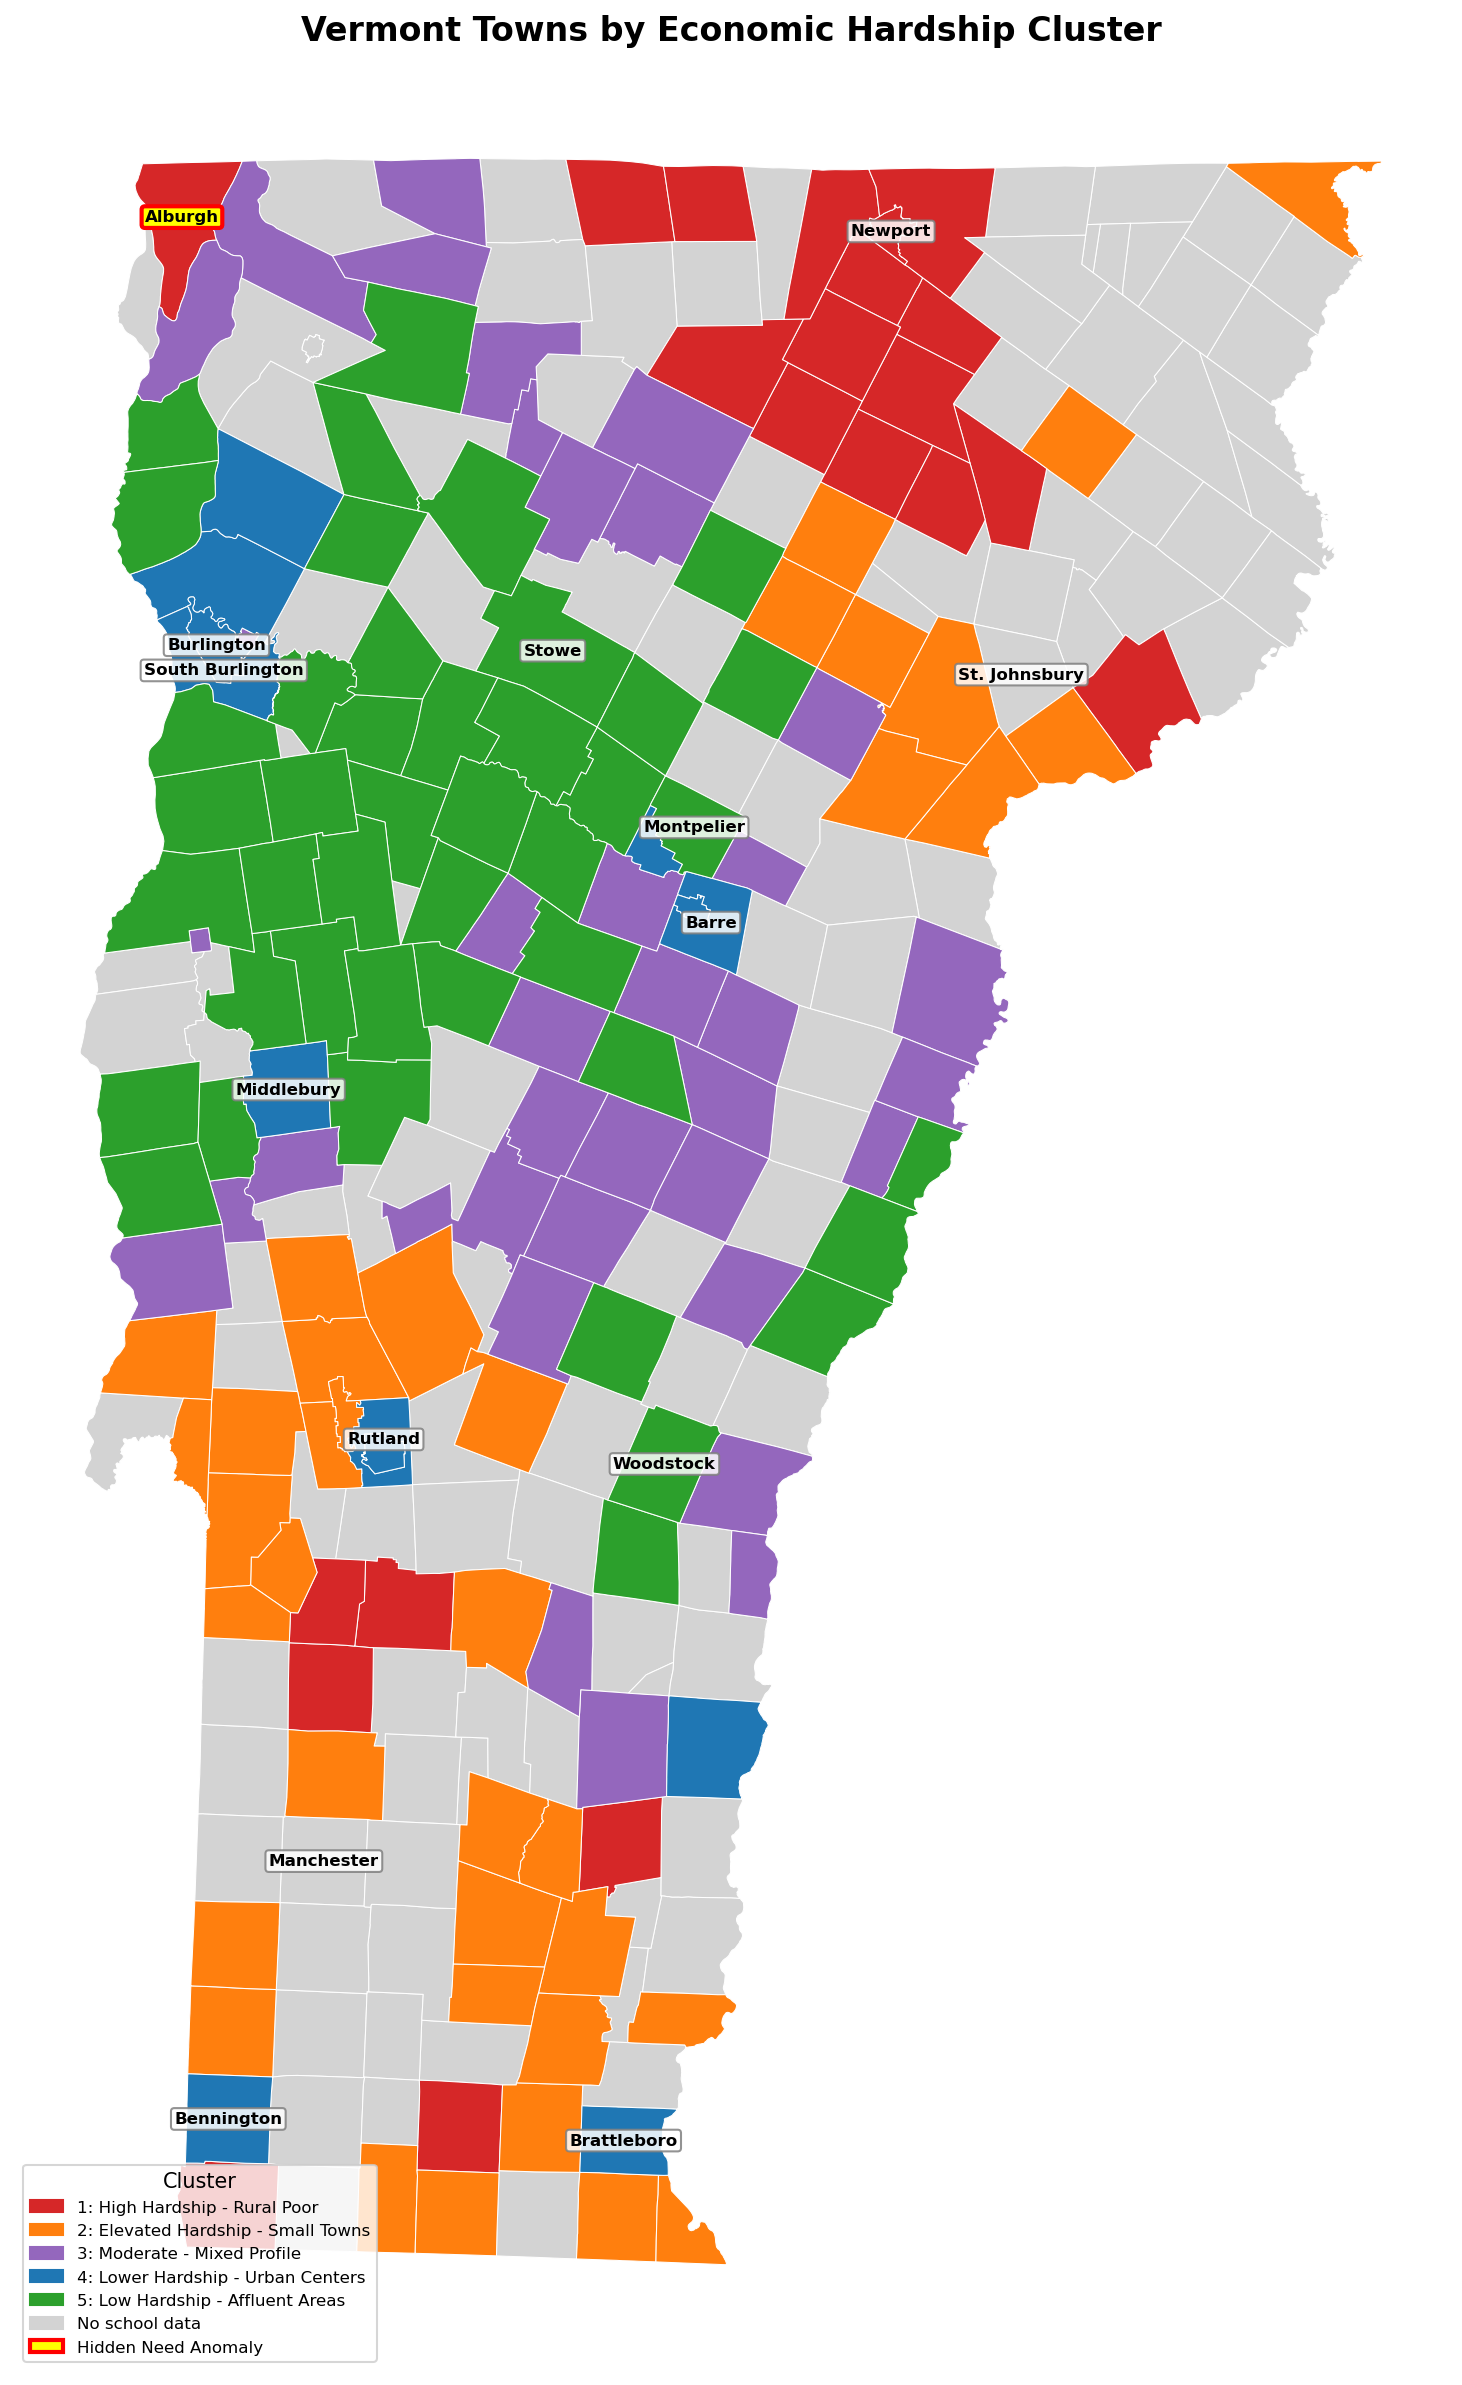
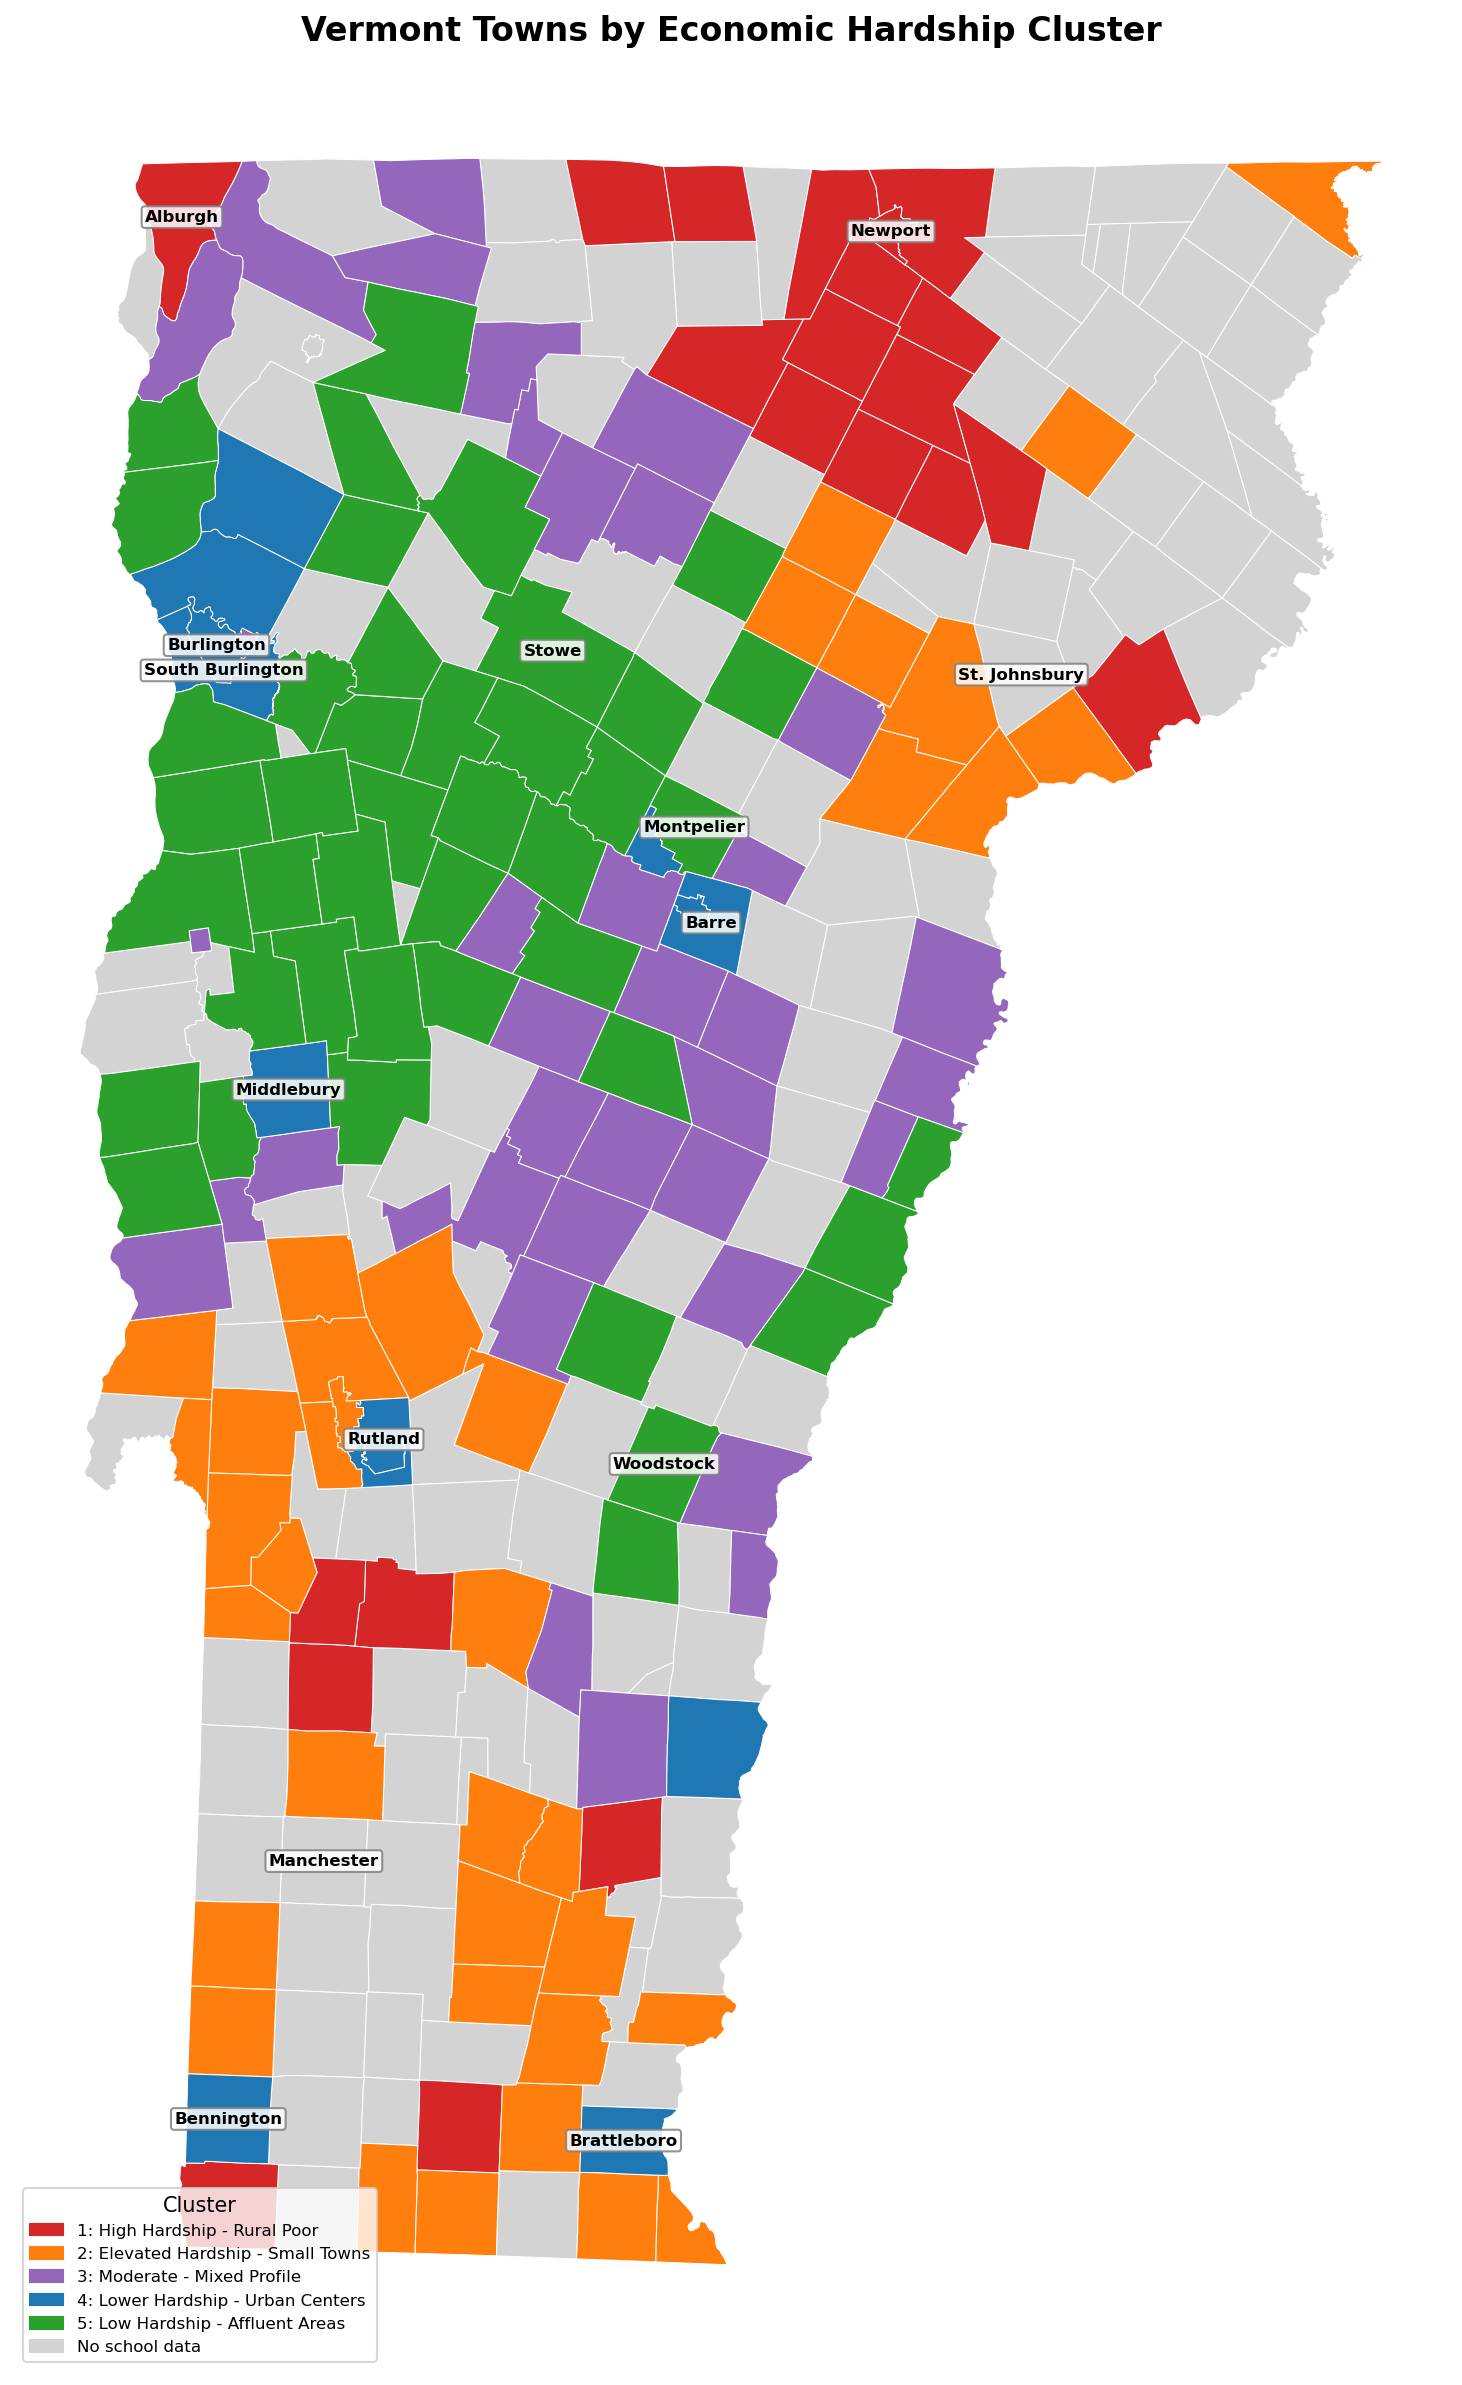
Shorten README, remove yellow highlight from Alburgh

Changed region(s): [[0.0, 0.8998, 0.277, 0.9929], [0.0923, 0.0621, 0.1539, 0.1241]]

diff --git a/README.md b/README.md
@@ -1,123 +1,58 @@
-# Vermont Town-Level Economic Hardship Analysis
+# Vermont Economic Hardship Analysis
 
-An unsupervised learning approach to identify economic hardship patterns across Vermont's 191 towns using K-Means clustering, PCA, and anomaly detection.
+Unsupervised learning analysis of economic hardship across Vermont's 191 towns using K-Means clustering, PCA, and anomaly detection.
 
-## Data Sources
-
-- **Census ACS 2022**: County-level poverty rate, median household income, SNAP participation
-- **NCES Common Core of Data 2022**: School-level free/reduced lunch eligibility
-
-## Key Findings
-
-- **191 towns** analyzed across all 14 Vermont counties
-- **35 towns (18%)** classified as "High Hardship"
-- **Free/Reduced Lunch rates** range from 4% (Charlotte) to 75% (North Troy)
-- **19 anomaly towns** identified with unusual hardship patterns
+**Data**: Census ACS 2022 (county economics) + NCES CCD 2022 (school lunch eligibility)
 
 ---
 
-## Principal Component Analysis (PCA)
+## PCA Results
 
-We reduced 32 economic features down to 5 principal components that capture 84% of the variance.
+Reduced 32 features to 5 principal components (84% variance explained).
 
-![PCA Scatter Plot](fig3_pca_scatter.png)
+![PCA Scatter](fig3_pca_scatter.png)
 
-### What the Components Represent
-
-| Component | Variance | Interpretation |
-|-----------|----------|----------------|
-| **PC1** | 37% | **Economic Hardship** — High FRPL rates, high poverty, low income, high SNAP participation. Towns on the right side of the plot face more economic challenges. |
-| **PC2** | 26% | **Town Size** — Total enrollment, number of schools, within-town variance. Towns at the top are larger (Burlington, Rutland), towns at the bottom are small rural communities. |
-| **PC3** | 12% | **County vs Town Effects** — Captures differences between town-level and county-level indicators. |
-| **PC4** | 6% | **School Structure** — Whether a town has separate elementary/middle/high schools vs. combined schools. |
-| **PC5** | 4% | **Within-Town Inequality** — Variance in FRPL rates across different schools in the same town. |
-
-**Key insight**: The horizontal axis (PC1) essentially ranks towns from most affluent (left) to most struggling (right). The vertical axis (PC2) separates large urban centers from small rural towns.
+- **PC1 (37%)**: Economic hardship — higher values = more struggling
+- **PC2 (26%)**: Town size — larger towns at top, small rural at bottom
 
 ---
 
 ## K-Means Clustering
 
-We grouped towns into 5 clusters based on their economic profiles.
+![Clusters](fig8_clusters_pca_space.png)
 
-![Clusters in PCA Space](fig8_clusters_pca_space.png)
-
-### Cluster Definitions
-
-| Cluster | Name | Towns | Avg FRPL | Description |
-|---------|------|-------|----------|-------------|
-| **1** (Red) | High Hardship - Rural Poor | 35 | 54% | Small rural towns with severe economic stress. Concentrated in Orleans and Essex counties (the "Northeast Kingdom"). |
-| **2** (Orange) | Elevated Hardship - Small Towns | 45 | 28% | Small towns in lower-income counties. Not as severe as Cluster 1, but still facing challenges. |
-| **3** (Purple) | Moderate - Mixed Profile | 47 | 39% | Middle-of-the-road towns. Mix of economic indicators, often in transitional areas. |
-| **4** (Blue) | Lower Hardship - Urban Centers | 15 | 31% | Larger towns and small cities (Burlington, Rutland, Bennington). Higher FRPL than Cluster 5 due to urban poverty pockets. |
-| **5** (Green) | Low Hardship - Affluent Areas | 49 | 17% | Wealthy suburban and resort towns. Includes Stowe, Woodstock, Charlotte, and Burlington suburbs. |
+| Cluster | Name | Towns | Avg FRPL |
+|---------|------|-------|----------|
+| 1 (Red) | High Hardship - Rural Poor | 35 | 54% |
+| 2 (Orange) | Elevated Hardship | 45 | 28% |
+| 3 (Purple) | Moderate | 47 | 39% |
+| 4 (Blue) | Urban Centers | 15 | 31% |
+| 5 (Green) | Affluent Areas | 49 | 17% |
 
 ---
 
 ## Geographic Distribution
 
-![Vermont Map by Cluster](fig17_vermont_map.png)
+![Vermont Map](fig17_vermont_map.png)
 
-The map reveals clear geographic patterns:
-
-- **Northeast Kingdom** (Orleans, Essex, Caledonia counties): Dominated by red and orange — this is Vermont's economically struggling region
-- **Chittenden County** (Burlington area): Almost entirely green — the state's economic engine
-- **Southern Vermont**: Mixed, with pockets of hardship in Bennington and Windham counties
-- **Resort corridor** (Stowe, Manchester, Woodstock): Green islands of affluence
+- **Northeast Kingdom** (Orleans, Essex): Mostly red/orange — highest hardship
+- **Chittenden County**: Green — most affluent
+- **Alburgh**: 67.5% FRPL in Grand Isle County (Vermont's wealthiest) — a "hidden need" town
 
 ---
 
-## Anomaly Detection: Hidden Need Towns
+## Anomaly Detection
 
-Using Isolation Forest, we identified 19 towns that don't fit typical patterns. These "hidden need" cases are particularly important for policy because they might be overlooked by standard analysis.
+19 towns flagged as outliers. Key examples:
 
-### Notable Anomalies
-
-**Alburgh** (Grand Isle County)
-- 67.5% FRPL rate — one of the highest in the state
-- Located in Grand Isle County, which has the *highest* median income ($86,639) in Vermont
-- This town would be completely missed by county-level analysis
-- **Why it matters**: A struggling community hidden within a wealthy county
-
-**Burlington** (Chittenden County)
-- 48% FRPL rate despite being in Vermont's wealthiest county
-- High within-town inequality: schools range from 20% to 70% FRPL
-- **Why it matters**: Urban poverty concentrated in specific neighborhoods
-
-**Newport** (Orleans County)
-- 59% FRPL rate with high school-to-school variance
-- Largest town in the Northeast Kingdom
-- **Why it matters**: Regional hub that could anchor economic development efforts
-
-**Plainfield** (Washington County)
-- 33% FRPL rate, but extremely high variance between schools
-- **Why it matters**: Hidden inequality within an otherwise moderate town
+- **Alburgh**: High poverty in wealthy county
+- **Burlington**: 48% FRPL, high inequality between schools
+- **Newport**: 59% FRPL, regional hub in struggling area
 
 ---
 
 ## Files
 
-| File | Description |
-|------|-------------|
-| `vermont_clusters.csv` | All 191 towns with cluster assignments and key metrics |
-| `vermont_anomalies.csv` | Detailed analysis of 19 anomaly towns |
-| `vermont_feature_matrix.csv` | Full 32-feature matrix used for analysis |
-| `fig3_pca_scatter.png` | Towns in PCA space colored by FRPL rate |
-| `fig8_clusters_pca_space.png` | Towns colored by cluster assignment |
-| `fig17_vermont_map.png` | Geographic map of Vermont by cluster |
-
-## Methodology
-
-1. **Data Collection**: Census ACS API + Urban Institute Education Data API
-2. **Feature Engineering**: 32 variables including weighted FRPL rates, within-town variance, county economics
-3. **PCA**: Reduced to 5 components (84% variance explained)
-4. **K-Means**: k=5 clusters determined by silhouette score
-5. **Anomaly Detection**: Isolation Forest with 10% contamination threshold
-
-## Tools
-
-Python, pandas, scikit-learn, geopandas, matplotlib
-
----
-
-*Analysis conducted March 2026*
+- `vermont_clusters.csv` — 191 towns with cluster assignments
+- `vermont_anomalies.csv` — 19 anomaly towns
+- `vermont_feature_matrix.csv` — Full feature matrix
